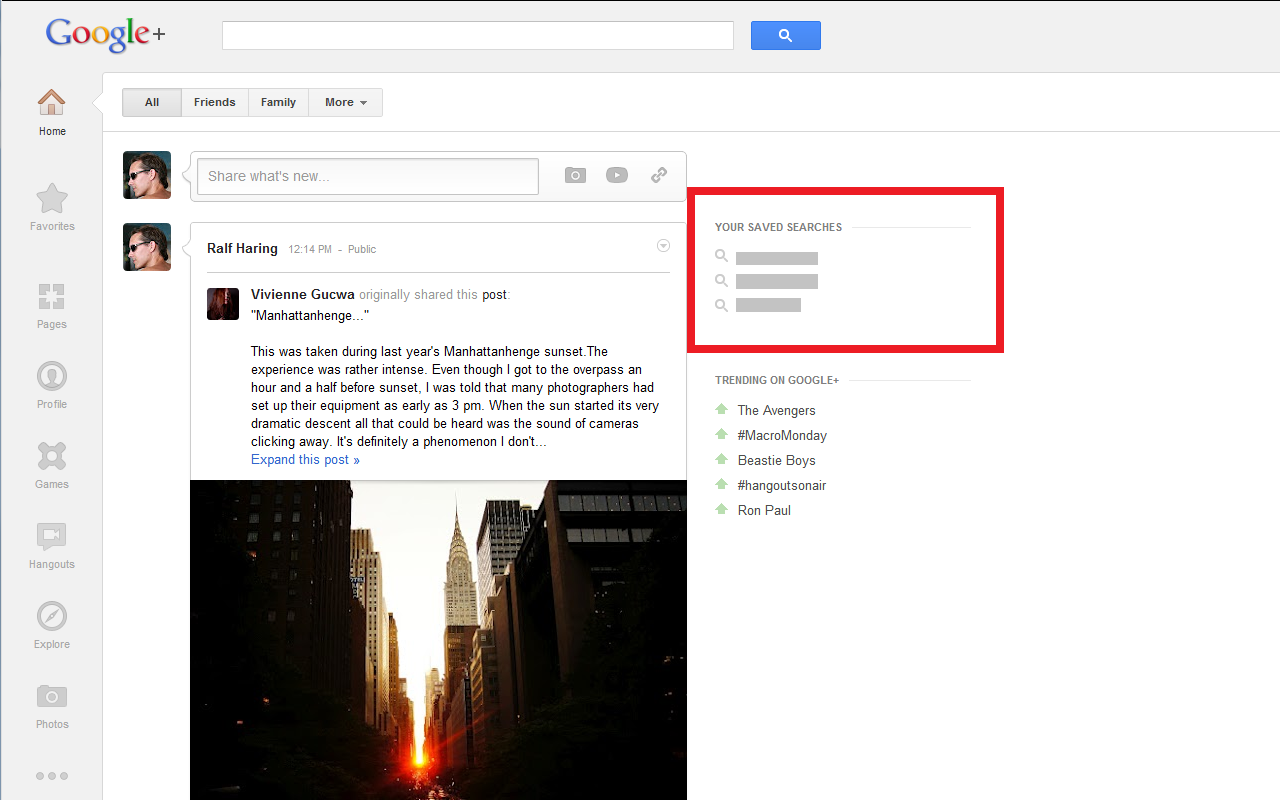
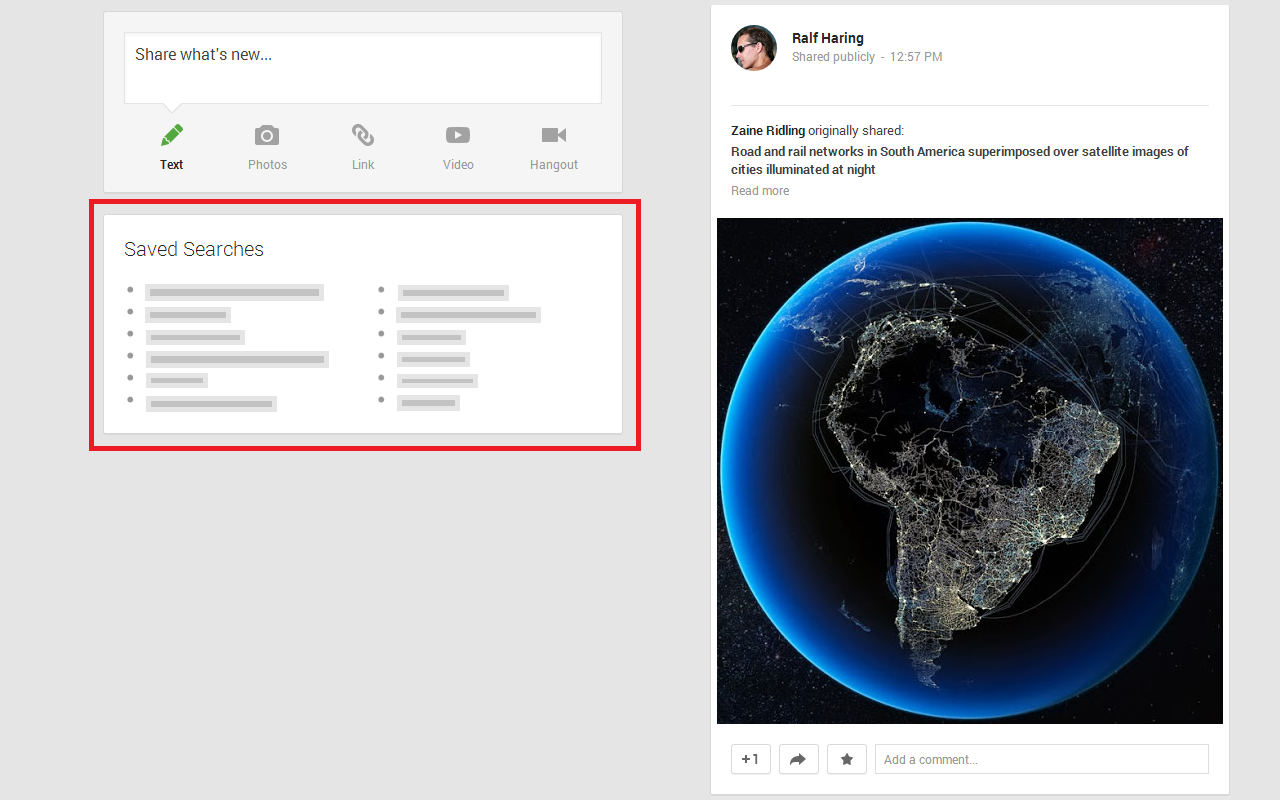
show_saved_searches v1.6 G+ layout refresh

diff --git a/show_saved_searches/extension/show_saved_searches.js b/show_saved_searches/extension/show_saved_searches.js
@@ -1,30 +1,46 @@
 /**
- * @author Ralf Haring 2012-05-07
+ * @author Ralf Haring 2012-07-12
  */
 
 var doWork = function(){
-    // if componentid="18" (saved search box) doesn't already exist
-    if(!document.querySelector('div[componentid="18"]')){
-        // insert dummy empty div to ward off later calls that might
-        // come in before we've finished setting up the real
-        // saved search div
-        $('<div componentid="18"></div>').insertBefore('div[componentid=13]');
-        // make a call to the explore page that lists the saved searches
-        $.get('https://plus.google.com/u/0/explore', function(data){
-            // copy the searches div onto the main page before the trending topics
-            $('div[componentid=18]', data).replaceAll('div[componentid=18]');
-            // the search elements are "buttons" of some sort instead of links
-            // so need some post-processing
-            $('div[componentid=18] span[role="button"]').each(function(){
-                // copy the first trending topic and modify the elements
-                var linkTemplate = $('div[componentid=13] li[rowindex=0] a').clone();
-                var searchTerm = $(this).text();
-                linkTemplate.contents().replaceWith(searchTerm);
-                linkTemplate.prop('href', 's/' + searchTerm.replace('#', '%23') + '/posts');
-                $(this).replaceWith(linkTemplate);
-            });
-        }, 'html');
+    // searches are only present at first in a script tag
+    // parse it to get human readable text and create hrefs
+
+    // strip out newlines and empty array bits that break JSON.parse
+    var searchText = $("script:contains('key: \'23\'')").text().replace(/\n/g, '').replace(/\[,,?\[/g, '[[');
+    // strip out function surrounding everything
+    var startPos = searchText.indexOf('["osi.gc"');
+    searchText = searchText.substr(startPos, searchText.length - startPos - 3);
+    var searchArray = JSON.parse(searchText)[1];
+    var searches = [];
+
+    for(var j=0; j < searchArray.length; j++){
+        // push elements like ["#human readable", "%23human%20readable"]
+        searches.push([searchArray[j][1], encodeURIComponent(searchArray[j][1])]);
     }
+
+    // loop and construct the searches card
+
+    // make card have two columns, so split it for easy adding during loop
+    var firstPart = '<div tabindex="-1" class="gXeWBf"><div class="r6Rtbe NB Om qcY0Mc h0b" role="article"><div class="bS Ym"><h3 class="TP tx hp"><span>Saved Searches</span></h3></div><div class="SP Ov"><div class="Urou4"><div class="S7B4Cc"><ul class="B8 vWa">';
+    var middlePart = '</ul></div></div><div class="Urou4"><div class="uBQ7J"><ul class="B8 vWa">';
+    var lastPart = '</ul></div></div></div></div></div>';
+
+    var emptyRow = '<li class="Ty QK cdb" rowindex="ROW_INDEX"><div class="bja"><div class="aOa Itb"></div><span class="bdb"><a href="s/SEARCH_URL" target="_top" class="a-n FW9qdb Wob" tabindex="0">SEARCH_TEXT</a></span></div><div class="XO"></div></li>';
+
+    for(var i=0; i < searches.length; i++){
+        var newRow = emptyRow.replace('SEARCH_TEXT', searches[i][0]).replace('SEARCH_URL', searches[i][1]).replace('ROW_INDEX', i);
+        if(i < searches.length / 2){
+            firstPart += newRow;
+        }else{
+            middlePart += newRow;
+        }
+    }
+
+    var searchCard = firstPart + middlePart + lastPart;
+
+    // insert after the share card
+    $(searchCard).insertAfter('div[data-iid="sii2:111"]');
 };
 
 // wait until page is fully loaded
@@ -36,20 +52,10 @@ $(document).ready(function(){
 var homeButton = document.querySelector('div[navid="1"]').firstChild.firstChild.firstChild;
 
 // create an observer who will watch for modifications of the home button
-// Pm in the class list = the button is the active button
-// Aj in the class list = the button is being hovered over
 var observer = new WebKitMutationObserver(function(mutations){
-    var classes = mutations[0].target.className;
-//    if(classes.indexOf('Pm') != -1){
-//        console.log('classes ' + classes + '     oldClasses ' + oldClasses);
-//        if(oldClasses.indexOf('Aj') == -1){
-            // wait a second for the rest of page to be
-            // constructed before trying to insert saved searches
-            setTimeout(doWork, 1000);
-//            setTimeout(doWork, Math.floor(Math.random() * 10000));
-//            doWork();
-//        }
-//   }
+    // wait a second for the rest of page to be
+    // constructed before trying to insert saved searches
+    setTimeout(doWork, 1000);
 });
 
 // watch for attribute level changes
